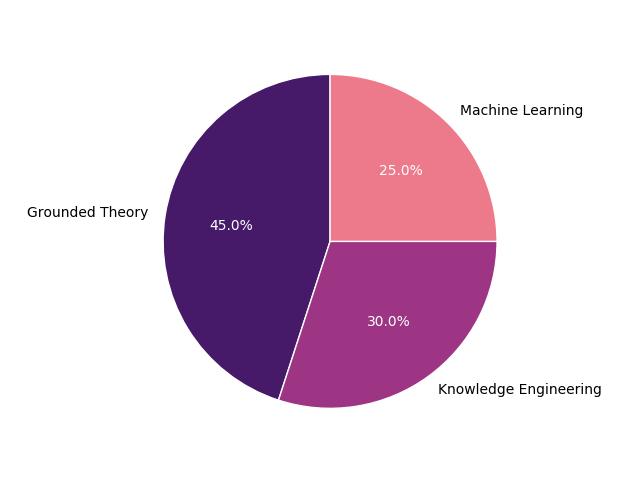
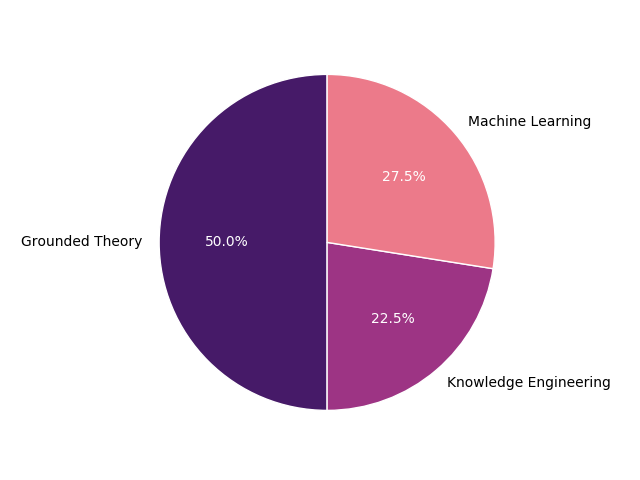
updated approaches for a few papers

diff --git a/README.md b/README.md
@@ -27,8 +27,8 @@ If related code or additional resources are available for the publication a link
 |Year|Title|Authors|Approach|Resources|
 |---|---|---|---|---|
 |2017|[Automatic masking reduction in balance mixes using evolutionary computing](http://www.aes.org/e-lib/browse.cfm?elib=19210)|N. Jillings, R. Stables|ML|No|
-|2016|[An evolutionary computation approach to intelligent music production, informed by experimentally gathered domain knowledge](http://usir.salford.ac.uk/44278/1/Wilson.pdf)|A. Wilson and B. Fazenda|KE|No|
-|2015|[Comparison of loudness features for automatic level adjustment in mixing](http://www.aes.org/e-lib/browse.cfm?elib=17928)|G. Wichern et al.|KE|No|
+|2016|[An evolutionary computation approach to intelligent music production, informed by experimentally gathered domain knowledge](http://usir.salford.ac.uk/44278/1/Wilson.pdf)|A. Wilson and B. Fazenda|ML|No|
+|2015|[Comparison of loudness features for automatic level adjustment in mixing](http://www.aes.org/e-lib/browse.cfm?elib=17928)|G. Wichern et al.|GT|No|
 |2014|[The mathematics of mixing](http://www.aes.org/tmpFiles/elib/20171227/17081.pdf)|M. J. Terrell, A. Simpson, and M. Sandler|GT|No|
 |2012|[Implementation and evaluation of autonomous multi-track fader control](http://citeseerx.ist.psu.edu/viewdoc/download?doi=10.1.1.725.3873&rep=rep1&type=pdf)|S. Mansbridge, S. Finn, and J. D. Reiss|GT|No|
 |2012|[An offline, automatic mixing method for live music, incorporating multiple sources, loudspeakers, and room effects](http://ieeexplore.ieee.org/document/6791175)|M. J. Terrell and M. Sandler|GT|No|
@@ -37,7 +37,7 @@ If related code or additional resources are available for the publication a link
 |2011|[Analysis of acoustic features for automated multi-track mixing](http://music.ece.drexel.edu/files/Navigation/Publications/Scott2011b.pdf)|J. Scott and Y. E. Kim|ML|No|
 |2009|[Automatic gain and fader control for live mixing](https://www.researchgate.net/publication/224086775_Automatic_gain_and_fader_control_for_live_mixing)|E. Perez Gonzalez and J. D. Reiss|GT|No|
 |2009|[Automatic equalization of multichannel audio using cross-adaptive methods](https://www.researchgate.net/publication/277836816_Automatic_Equalization_of_Multichannel_Audio_Using_Cross-Adaptive_Methods)|E. Perez Gonzalez and J. D. Reiss|GT|No|
-|2009|[Automatic monitor mixing for live musical performance](http://www.aes.org/e-lib/browse.cfm?elib=15229)|M. J. Terrell and J. D. Reiss|KE|No|
+|2009|[Automatic monitor mixing for live musical performance](http://www.aes.org/e-lib/browse.cfm?elib=15229)|M. J. Terrell and J. D. Reiss|GT|No|
 |2008|[An automatic maximum gain normalization technique with applications to audio mixing](http://www.aes.org/e-lib/browse.cfm?elib=14541)|E. Perez Gonzalez and J. D. Reiss|GT|No|
 |2008|[A framework for automatic mixing using timbral similarity measures and genetic optimization](http://www.aes.org/e-lib/browse.cfm?elib=14626)|B. Kolasinski|ML|[Yes](http://www.nyu.edu/projects/mtr/)|
 ## Panning
